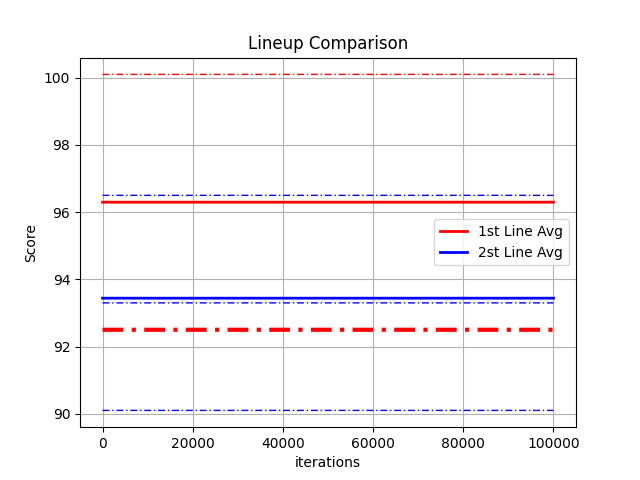
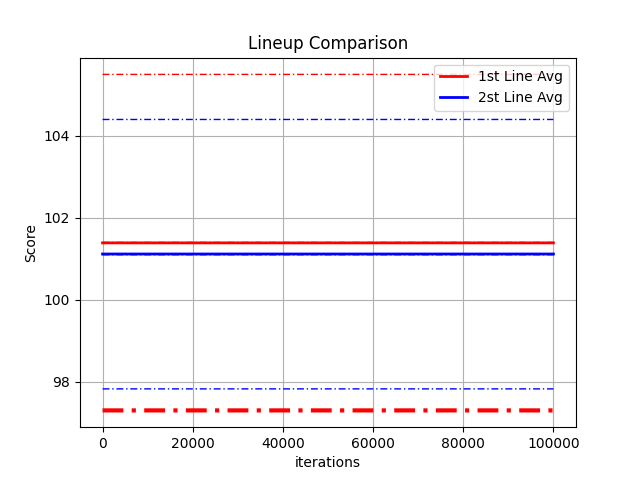
Added instructions

diff --git a/Player_Analysis/Entry.py b/Player_Analysis/Entry.py
@@ -6,6 +6,14 @@
     analyzes the players in every possible position, 
     and exports data in an excel file.
     Author: Paul Brockmann
+
+    How to Use:
+    1) Download most recent team roster as a csv (use Firefox instead of Safari).
+    2) Move csv file into Player_Analysis folder.
+    3) If new coach or trainees, update script with names.
+    4) Run Script.
+        4.1) If just an excel sheet with player position ratings.
+        4.2)
 """
 
 import tkinter
@@ -498,18 +506,26 @@ if __name__ == "__main__":
     df = result_df_sort(df, df0) #Needs work
     formation = ['GK', 'W', 'W', 'WB', 'WB', 'FW', 'FW', 'ILRM', 'ILRM', 'CLRD', 'CLRD'] #Should be 11
     df_by_names, formation = format_roster(df, formation)
-    df_by_names2, lineup1, score1, score_history1 = do_lineup_iterations(100000, df_by_names, formation)
-    df_by_names3, lineup2, score2, score_history2 = do_lineup_iterations(2000, df_by_names2, formation)
-    print(f'Score for the First Lineup: {score1}')
-    print(lineup1)
-    print(f'Score for the Second Lineup: {score2}')
-    print(lineup2)
-    print(df_by_names3)
-    plot_iterations(score_history1, score_history2)
 
-    x = input('Do you want to export file? y/n:  ')
+    yn_lineup_iterations = input('Do you want to iterate to find the best lineup? y/n:  ')
+    if yn_lineup_iterations == 'y':
+        yn_second_lineup_iterations = input('Do you want to interate to find the 2nd Lineup? y/n:  ')
+        df_by_names2, lineup1, score1, score_history1 = do_lineup_iterations(100000, df_by_names, formation)
+        print(f'Score for the First Lineup: {score1}')
+        print(lineup1)
+        if yn_second_lineup_iterations == 'y':
+            df_by_names3, lineup2, score2, score_history2 = do_lineup_iterations(2000, df_by_names2, formation)
+            print(f'Score for the First Lineup: {score1}')
+            print(lineup1)
+            print(f'Score for the Second Lineup: {score2}')
+            print(lineup2)
+            print(df_by_names3)
+            plot_iterations(score_history1, score_history2)
+
+    x = input('Do you want to export the player position ratings file? y/n:  ')
     if x == 'y':
         export_result_df('Team_Results', df)
-        print('Exported results')
+        print('Exported results to Team_Results.xlsx')
     else:
         print('Did not export results')
+    print('END OF PROGRAM')
